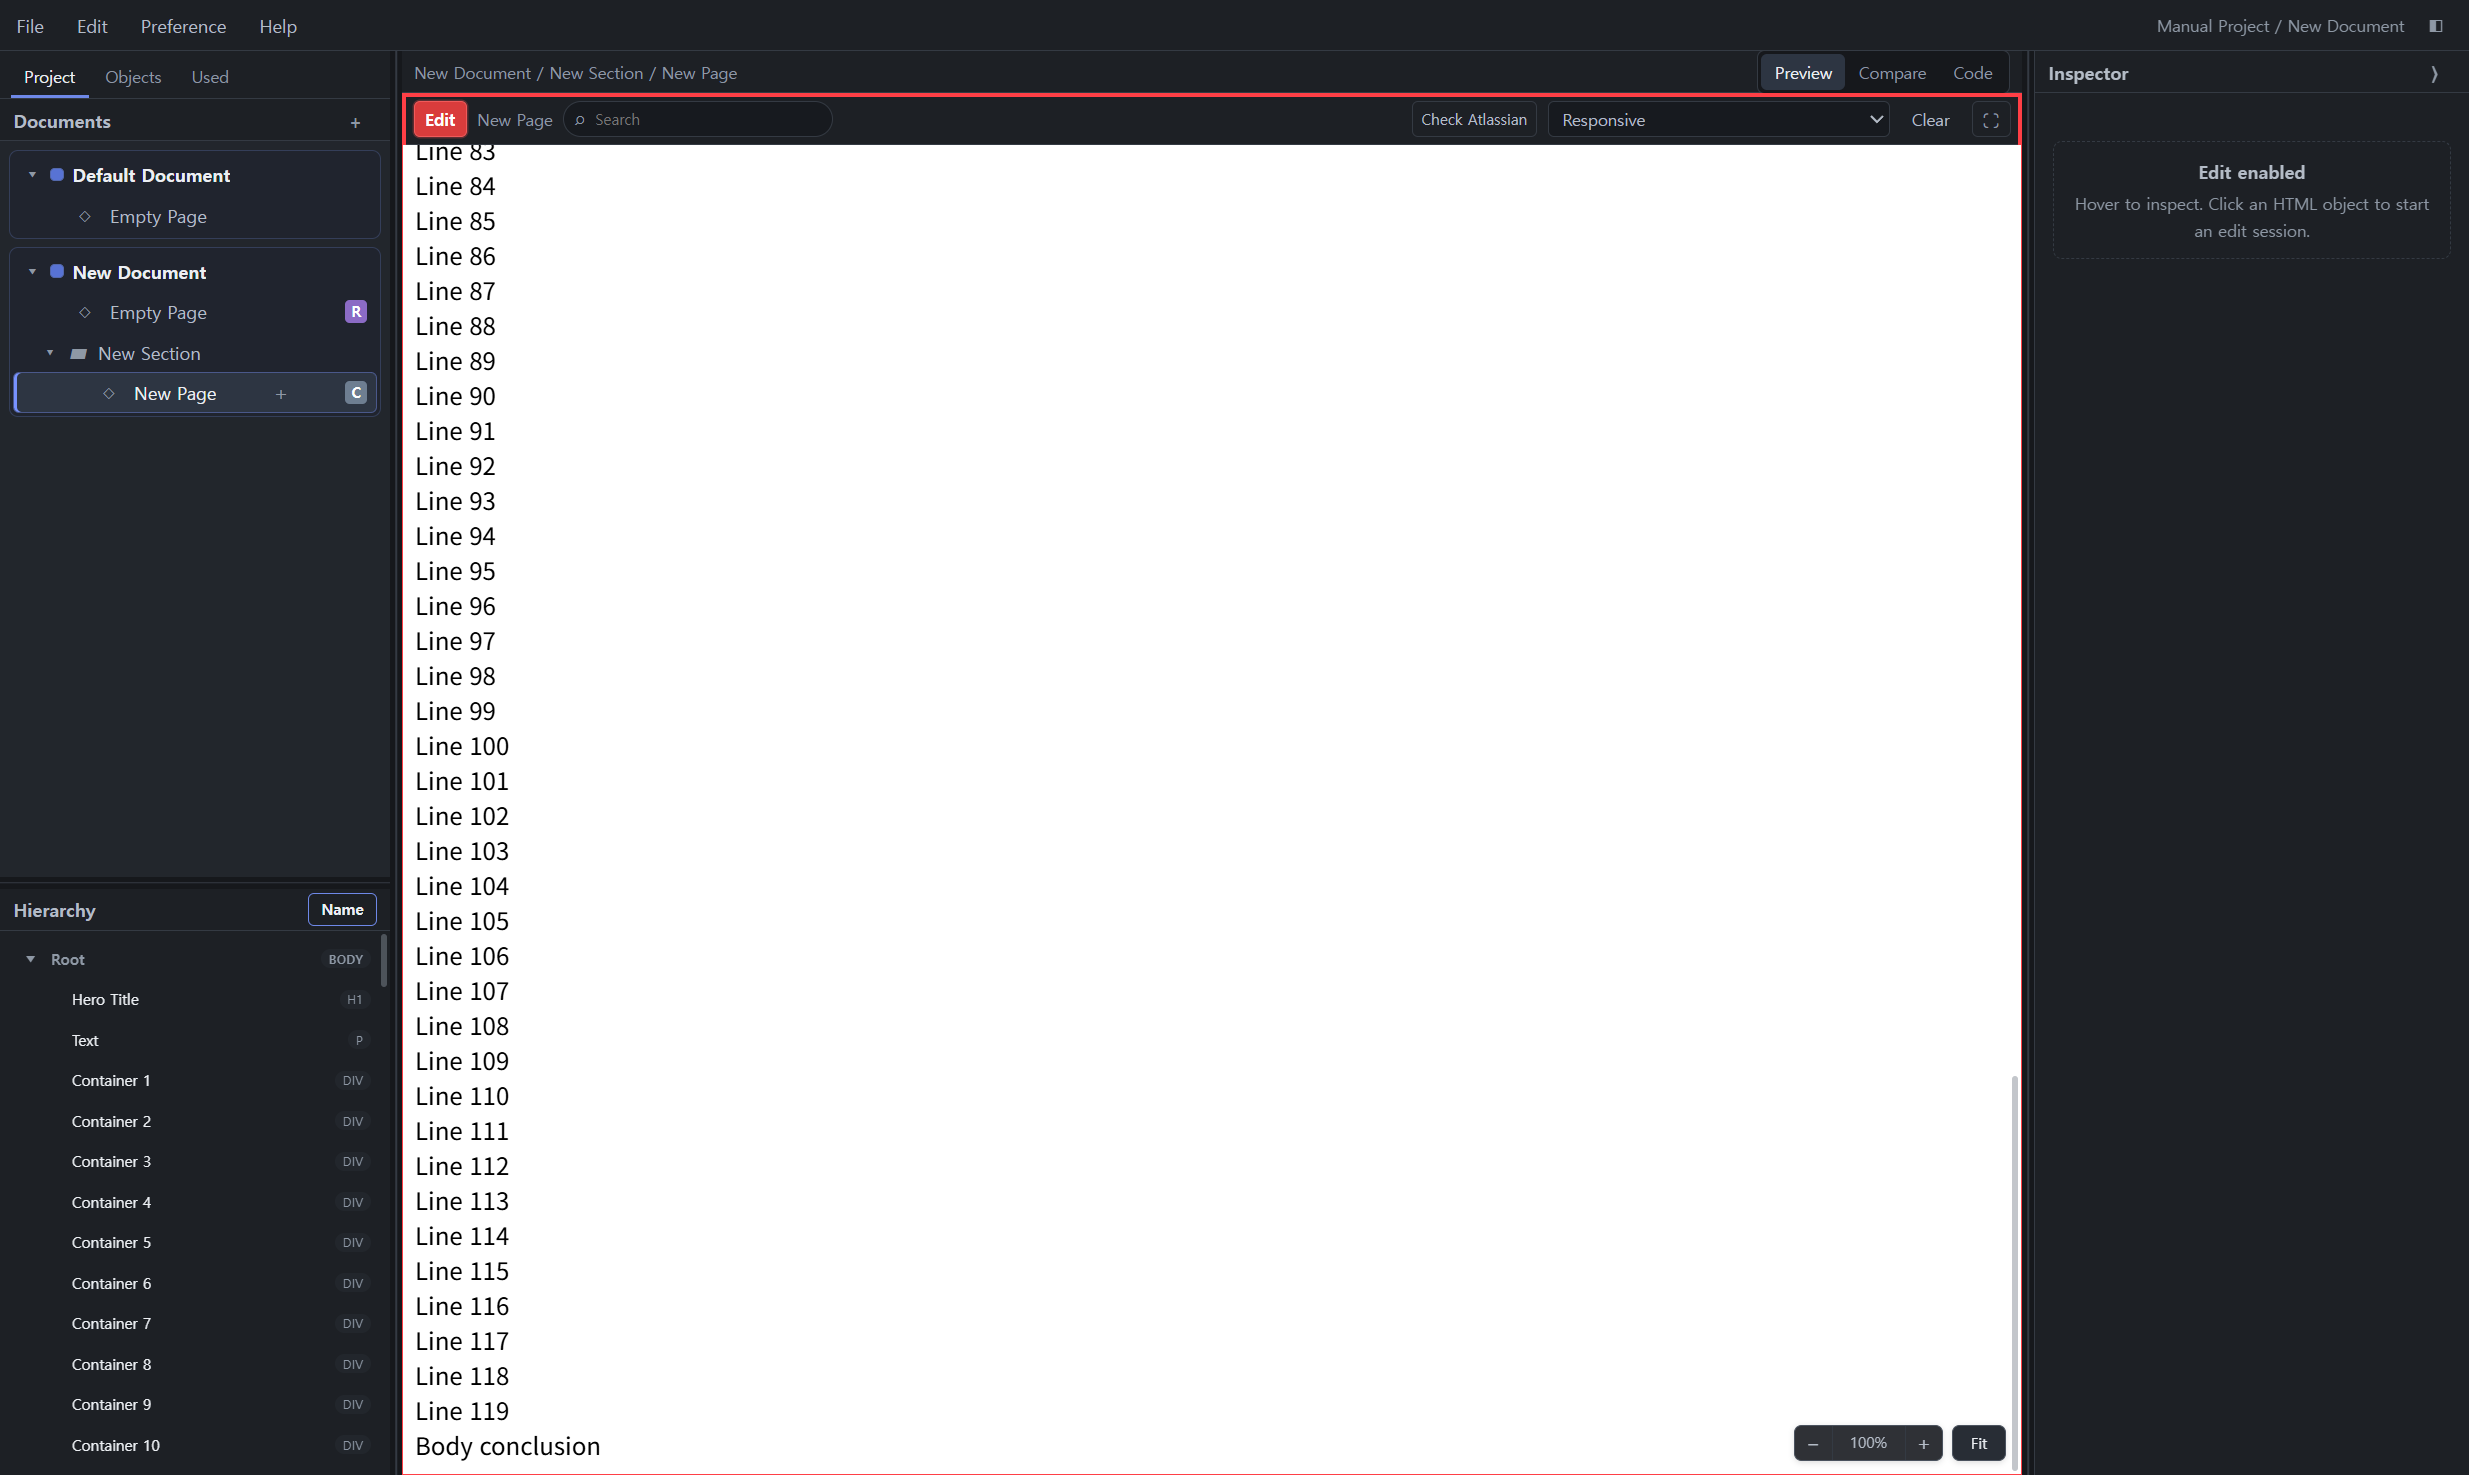
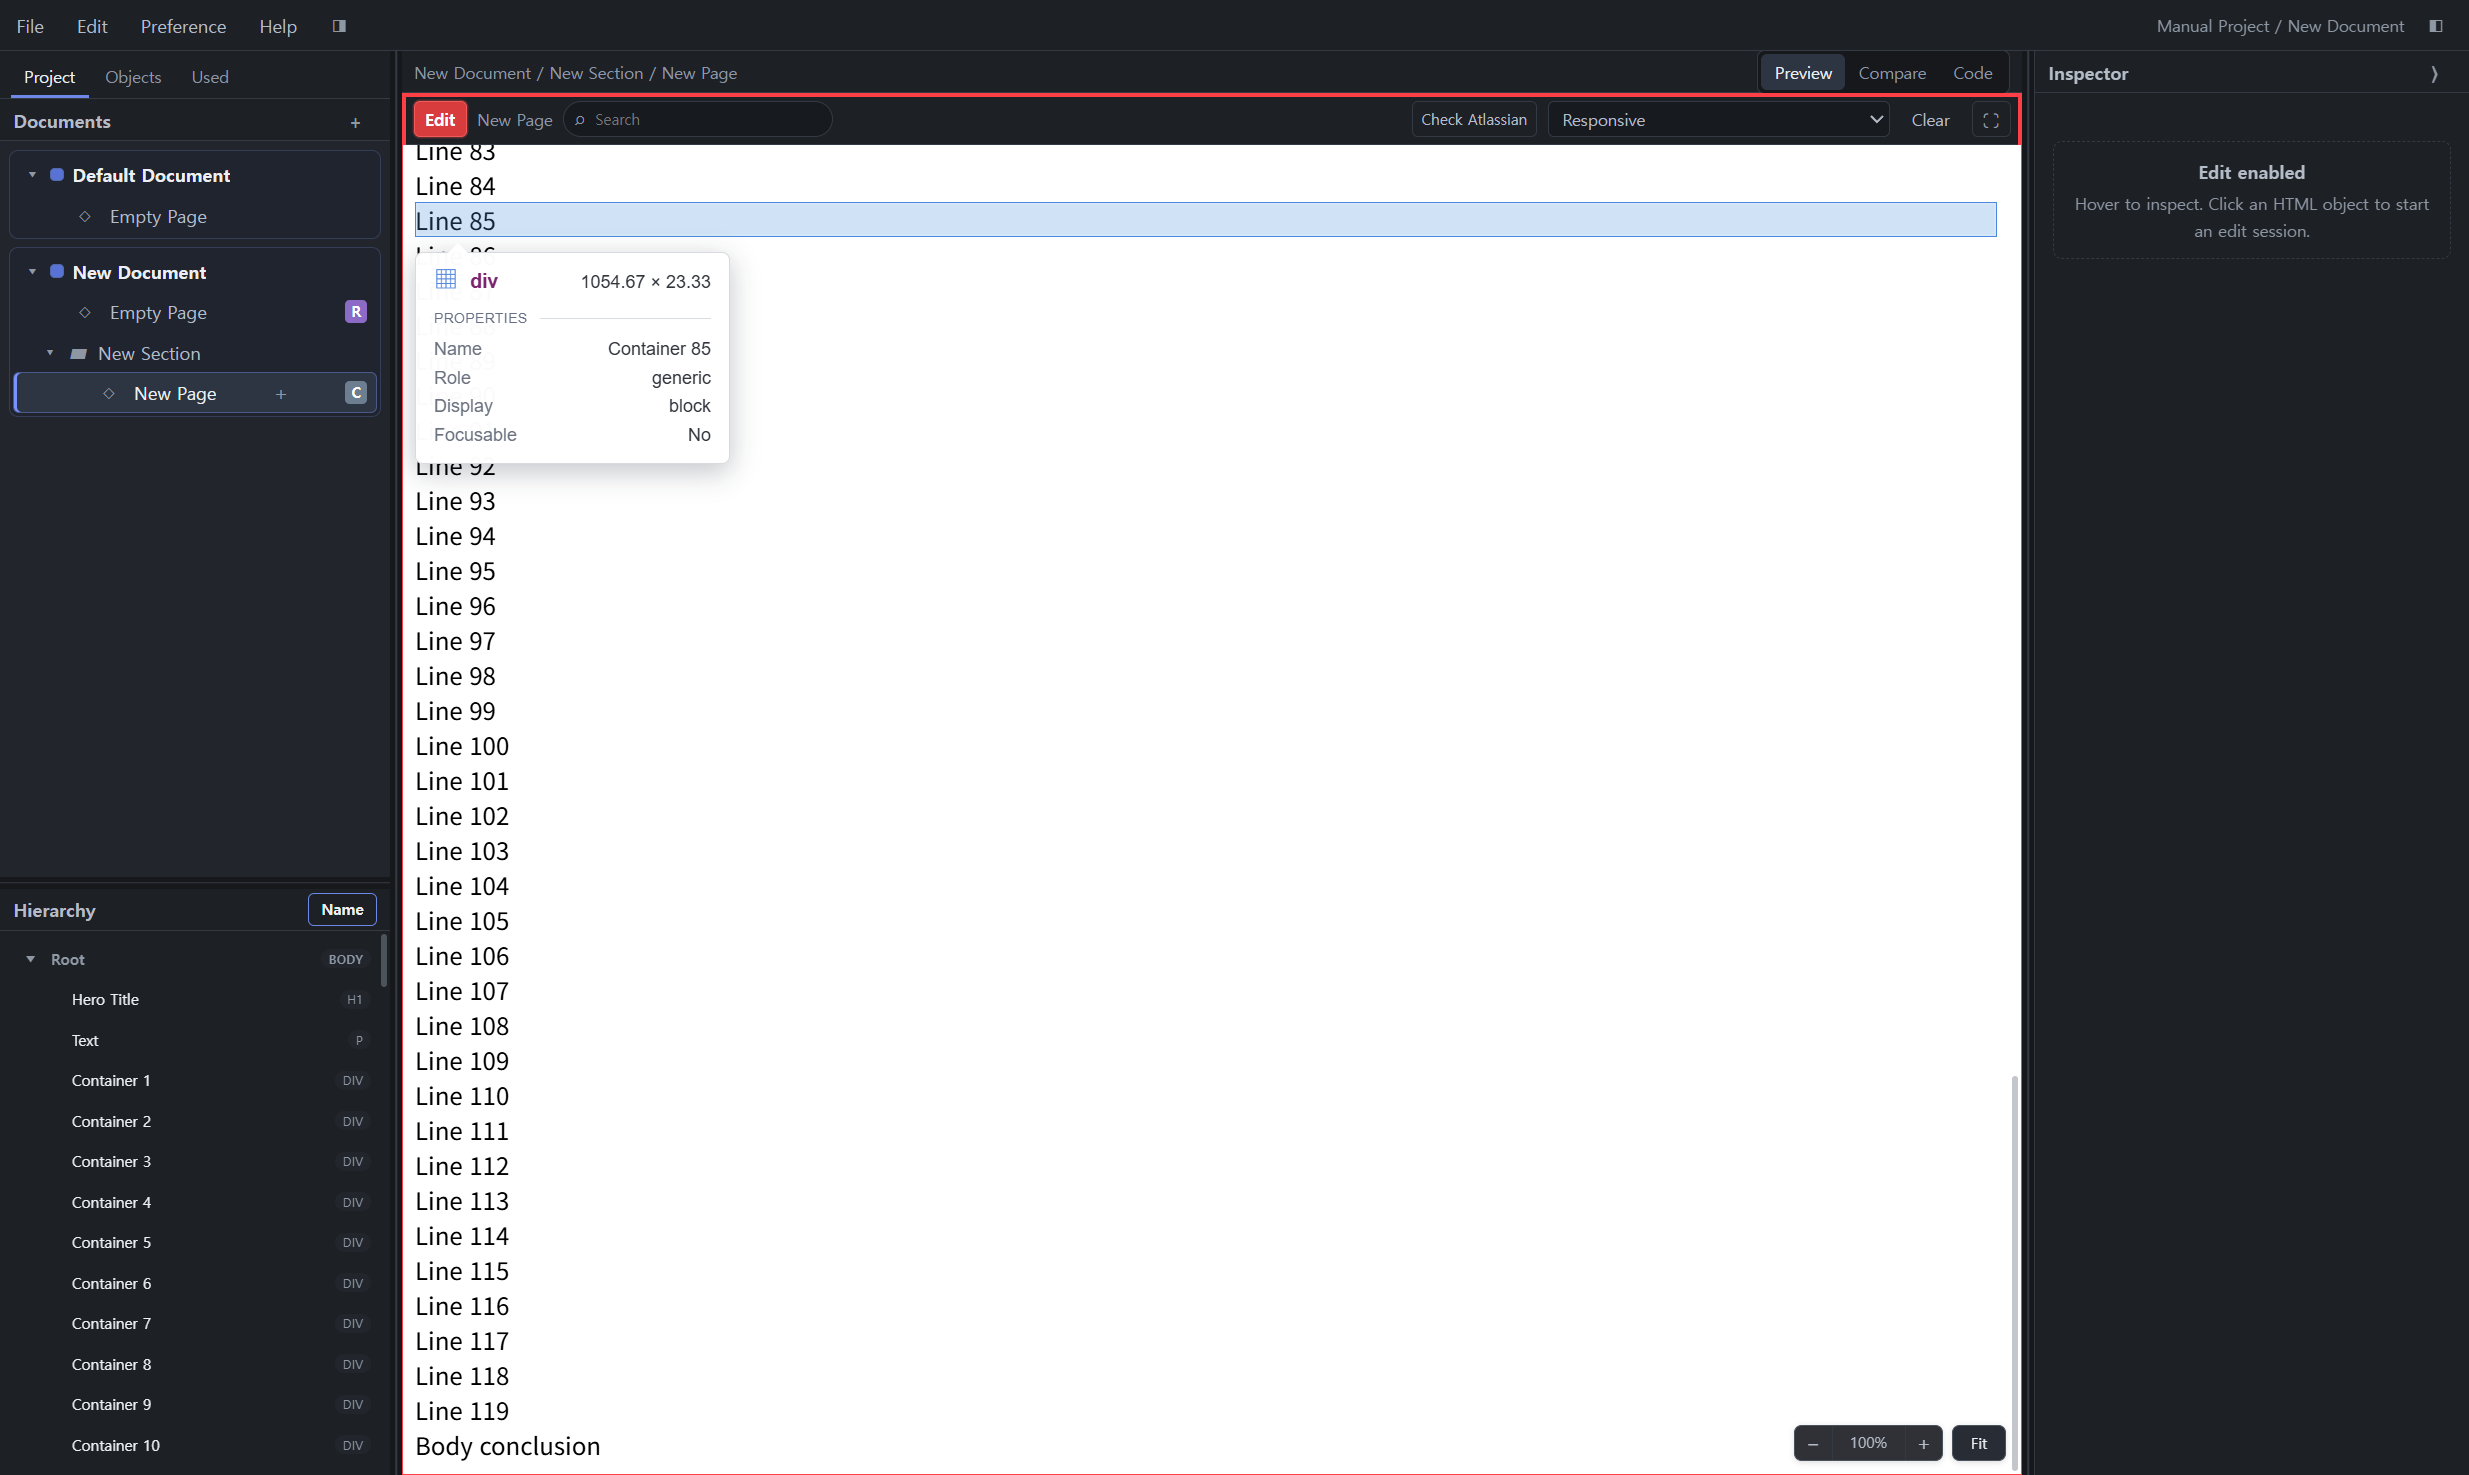
test(ui): cover independent panel collapse

Changed region(s): [[0.1559, 0.1247, 0.8109, 0.3431]]

diff --git a/scripts/e2e-sidebar-toggle-v0516.js b/scripts/e2e-sidebar-toggle-v0516.js
@@ -1,0 +1,44 @@
+const fs=require('fs');
+const http=require('http');
+const path=require('path');
+const port=Number(process.env.LEAF_DEBUG_PORT||9230);
+const sleep=ms=>new Promise(resolve=>setTimeout(resolve,ms));
+const json=url=>new Promise((resolve,reject)=>http.get(url,response=>{let body='';response.on('data',chunk=>body+=chunk);response.on('end',()=>resolve(JSON.parse(body)));}).on('error',reject));
+
+async function main(){
+  let targets;
+  for(let attempt=0;attempt<50;attempt++){try{targets=await json(`http://127.0.0.1:${port}/json/list`);break;}catch{await sleep(250);}}
+  const target=targets?.find(item=>item.type==='page'&&item.title==='Leaf')||targets?.find(item=>item.type==='page');
+  if(!target)throw new Error('Leaf renderer target not found');
+  const socket=new WebSocket(target.webSocketDebuggerUrl);let nextId=0;const pending=new Map();
+  socket.onmessage=event=>{const message=JSON.parse(event.data);if(message.id&&pending.has(message.id)){const item=pending.get(message.id);pending.delete(message.id);message.error?item.reject(new Error(message.error.message)):item.resolve(message.result);}};
+  await new Promise((resolve,reject)=>{socket.onopen=resolve;socket.onerror=reject;});
+  const send=(method,params={})=>new Promise((resolve,reject)=>{const id=++nextId;pending.set(id,{resolve,reject});socket.send(JSON.stringify({id,method,params}));});
+  const evaluate=async expression=>{const response=await send('Runtime.evaluate',{expression,awaitPromise:true,returnByValue:true});if(response.exceptionDetails)throw new Error(response.exceptionDetails.exception?.description||response.exceptionDetails.text);return response.result.value;};
+  let passed=0;const check=(name,condition,detail='')=>{if(!condition)throw new Error(`FAIL ${name}${detail?`: ${detail}`:''}`);passed++;console.log(`PASS ${name}`);};
+  await send('Runtime.enable');await send('Page.enable');await sleep(500);
+
+  const initial=await evaluate(`(()=>{const sidebar=document.querySelector('#leftSidebar'),main=document.querySelector('.main'),button=document.querySelector('#sidebarToggleTop');return{sidebarWidth:sidebar.getBoundingClientRect().width,mainWidth:main.getBoundingClientRect().width,expanded:button.getAttribute('aria-expanded'),title:button.title,inspector:getComputedStyle(document.querySelector('#inspector')).display}})()`);
+  check('Left panel starts visible with an exposed collapse control',initial.sidebarWidth>=190&&initial.expanded==='true'&&initial.title==='Hide left panel'&&initial.inspector!=='none',JSON.stringify(initial));
+
+  await evaluate(`document.querySelector('#sidebarToggleTop').click()`);await sleep(100);
+  const hidden=await evaluate(`(()=>{const workspace=document.querySelector('#workspace'),sidebar=document.querySelector('#leftSidebar'),resizer=document.querySelector('#sidebarResizer'),main=document.querySelector('.main'),button=document.querySelector('#sidebarToggleTop'),saved=JSON.parse(localStorage.getItem('leaf-v0-5-16-state'));return{collapsed:workspace.classList.contains('sidebar-collapsed'),sidebar:getComputedStyle(sidebar).display,resizer:getComputedStyle(resizer).display,mainWidth:main.getBoundingClientRect().width,expanded:button.getAttribute('aria-expanded'),label:button.getAttribute('aria-label'),title:button.title,saved:saved?.preferences?.sidebarCollapsed,inspector:getComputedStyle(document.querySelector('#inspector')).display}})()`);
+  check('Toggle hides the left panel and splitter while expanding the document area',hidden.collapsed&&hidden.sidebar==='none'&&hidden.resizer==='none'&&hidden.mainWidth>initial.mainWidth+150,JSON.stringify({initial,hidden}));
+  check('Collapsed state is accessible, independent, and persisted',hidden.expanded==='false'&&hidden.label==='Show left panel'&&hidden.title==='Show left panel'&&hidden.saved===true&&hidden.inspector!=='none',JSON.stringify(hidden));
+
+  const screenshot=await send('Page.captureScreenshot',{format:'png',captureBeyondViewport:false});
+  fs.writeFileSync(path.join(__dirname,'qa-evidence-sidebar-toggle-v0516.png'),Buffer.from(screenshot.data,'base64'));
+
+  await evaluate(`document.querySelector('#inspectorToggleTop').click()`);await sleep(80);
+  const bothHidden=await evaluate(`(()=>{const workspace=document.querySelector('#workspace'),main=document.querySelector('.main');return{both:workspace.classList.contains('sidebar-collapsed')&&workspace.classList.contains('inspector-collapsed'),mainWidth:main.getBoundingClientRect().width,columns:getComputedStyle(workspace).gridTemplateColumns}})()`);
+  check('Left panel and Inspector can collapse independently to fill the workspace',bothHidden.both&&bothHidden.mainWidth>hidden.mainWidth&&bothHidden.columns.split(' ').filter(value=>value==='0px').length>=4,JSON.stringify(bothHidden));
+
+  await evaluate(`document.querySelector('#sidebarToggleTop').click()`);await sleep(80);
+  const leftRestored=await evaluate(`(()=>{const workspace=document.querySelector('#workspace'),sidebar=document.querySelector('#leftSidebar'),button=document.querySelector('#sidebarToggleTop');return{left:workspace.classList.contains('sidebar-collapsed'),inspector:workspace.classList.contains('inspector-collapsed'),sidebar:getComputedStyle(sidebar).display,width:sidebar.getBoundingClientRect().width,expanded:button.getAttribute('aria-expanded')}})()`);
+  check('Left panel restores without forcing the Inspector open',!leftRestored.left&&leftRestored.inspector&&leftRestored.sidebar!=='none'&&leftRestored.width>=190&&leftRestored.expanded==='true',JSON.stringify(leftRestored));
+
+  await evaluate(`document.querySelector('#inspectorToggleTop').click()`);await sleep(60);
+  console.log(`Leaf left-panel toggle functional QA: ${passed}/5 PASS`);socket.close();
+}
+
+main().catch(error=>{console.error(error.stack||error);process.exit(1);});

diff --git a/scripts/qa-sidebar-toggle-v0516.js b/scripts/qa-sidebar-toggle-v0516.js
@@ -1,0 +1,41 @@
+const fs=require('fs');
+
+const html=fs.readFileSync('src/renderer/index.html','utf8');
+const js=fs.readFileSync('src/renderer/renderer.js','utf8');
+const css=fs.readFileSync('src/renderer/styles.css','utf8');
+let passed=0;
+function check(name,condition){
+  if(!condition){console.error(`FAIL ${name}`);process.exit(1);}
+  passed++;console.log(`PASS ${name}`);
+}
+
+check('Application bar exposes an accessible left-panel toggle',
+  html.includes('id="sidebarToggleTop"')&&html.includes('aria-controls="leftSidebar"')&&
+  html.includes('aria-expanded="true"')&&html.includes('aria-label="Hide left panel"')&&html.includes('title="Hide left panel"'));
+check('Left panel owns a stable accessibility target',html.includes('<aside class="sidebar" id="leftSidebar">'));
+check('Sidebar collapsed state is part of normalized preferences',
+  js.includes('sidebarCollapsed:false')&&js.includes("classList.toggle('sidebar-collapsed',!!state.preferences.sidebarCollapsed)"));
+check('Toggle updates layout, accessibility, tooltip, and stored state',
+  js.includes('function toggleSidebar()')&&js.includes('state.preferences.sidebarCollapsed=!state.preferences.sidebarCollapsed')&&
+  js.includes("setAttribute('aria-expanded',String(!state.preferences.sidebarCollapsed))")&&
+  js.includes("setAttribute('aria-label',refs.sidebarToggleTop.title)")&&
+  js.includes("state.preferences.sidebarCollapsed?'Show left panel':'Hide left panel'")&&
+  js.includes("$('#sidebarToggleTop').onclick=toggleSidebar")&&js.includes('persist();'));
+check('Collapsed grid removes the left panel and its splitter',
+  css.includes('.workspace.sidebar-collapsed{')&&css.includes('grid-template-columns:0 0 minmax(0,1fr)')&&
+  css.includes('.workspace.sidebar-collapsed .sidebar-resizer'));
+check('Both side panels can be collapsed at the same time',
+  css.includes('.workspace.sidebar-collapsed.inspector-collapsed{')&&
+  css.includes('grid-template-columns:0 0 minmax(0,1fr) 0 0'));
+check('Inspector sizing accounts for a hidden left panel',
+  js.includes('const sidebarSpace=state.preferences.sidebarCollapsed?0:(sidebarWidth+SPLITTER_HANDLE_PX)'));
+check('Hidden sidebar cannot start pointer or keyboard resize',
+  (js.match(/if\(state\.preferences\.sidebarCollapsed\) return;/g)||[]).length>=2);
+check('Existing Inspector collapse remains independently wired',
+  js.includes("$('#collapseInspector').onclick=toggleInspector")&&js.includes("$('#inspectorToggleTop').onclick=toggleInspector"));
+check('Trust Foundation security remains enabled',
+  fs.readFileSync('src/main.js','utf8').includes('contextIsolation: true')&&
+  fs.readFileSync('src/main.js','utf8').includes('sandbox: true')&&
+  fs.readFileSync('src/renderer/source-fidelity.js','utf8').includes('stripEditorArtifactsFromDocument'));
+
+console.log(`Leaf left-panel toggle regression QA: ${passed}/10 PASS`);

diff --git a/docs/RELEASE_v0.5.16.md b/docs/RELEASE_v0.5.16.md
@@ -48,6 +48,8 @@ New Document, New Page, and New Section now create immediately in the Project tr
 
 Preference now includes a third `Carbon` theme beside Dark and Light. Carbon uses five black-to-graphite surface levels, silver interaction states, off-white text hierarchy, low corner radii, and restrained chrome letter spacing based on the supplied monochrome industrial reference. The theme is limited to Leaf application chrome and does not restyle loaded Page content.
 
+The application bar now includes an accessible left-panel toggle. Collapsing it removes the Project/Object/Used area, Hierarchy area, and left splitter from layout so the active document View receives the recovered width. The left panel and Inspector can be hidden or restored independently, including when both are collapsed.
+
 Leaf now assigns one identity to each source path. Importing the same source file focuses the existing Page, and selecting an already-visible Compare document swaps the opposite binding rather than duplicating it.
 
 Markdown and JSON direct-source Edit is available from every visual View. PDF Edit enables the bundled Chromium PDF viewer's native annotation surface for highlighting, drawing, form filling, signatures, undo/redo, and downloading the edited PDF; Leaf does not decode the PDF binary into application source.
@@ -76,5 +78,7 @@ Animated WebP is not registered as an independent Page format.
 - Packaged Electron functional and adversarial QA: 36/36
 - Carbon theme static regression QA: 10/10
 - Carbon theme functional and persistence QA: 4/4
+- Left-panel toggle static regression QA: 10/10
+- Left-panel toggle functional and independent-panel QA: 5/5
 - Source Fidelity fixtures: 14/14
 - Complete v0.5.0–v0.5.15 regression chain: PASS

diff --git a/README.md b/README.md
@@ -28,6 +28,7 @@ Project (.prj)                       Ctrl+N
 - Every vertical and horizontal splitter reserves an 8px neutral gutter, leaving clear breathing room between adjacent panes while retaining the centered drag guide.
 - New Document, New Page, and New Section create immediately in the Project tree without opening a naming dialog. Repeated items receive collision-safe numbered names and remain available for later F2 rename.
 - Preference now offers a third `Carbon` appearance beside Dark and Light. Carbon translates the supplied black-metal reference into five monochrome surface levels, silver focus and selection states, off-white typography, and tighter industrial corner geometry without affecting Page content.
+- The application bar now includes a left-panel toggle. It hides both the Project/Object/Used area and Hierarchy splitter, expands the document View immediately, and restores the panel independently from Inspector visibility.
 - A source file is represented by one Page and cannot be opened into two Compare windows; duplicate imports focus the existing Page.
 - Markdown source editing works in every visual View. PDF Edit enables the native PDF annotation, highlight, fill, sign, undo/redo, and download tools.
 
